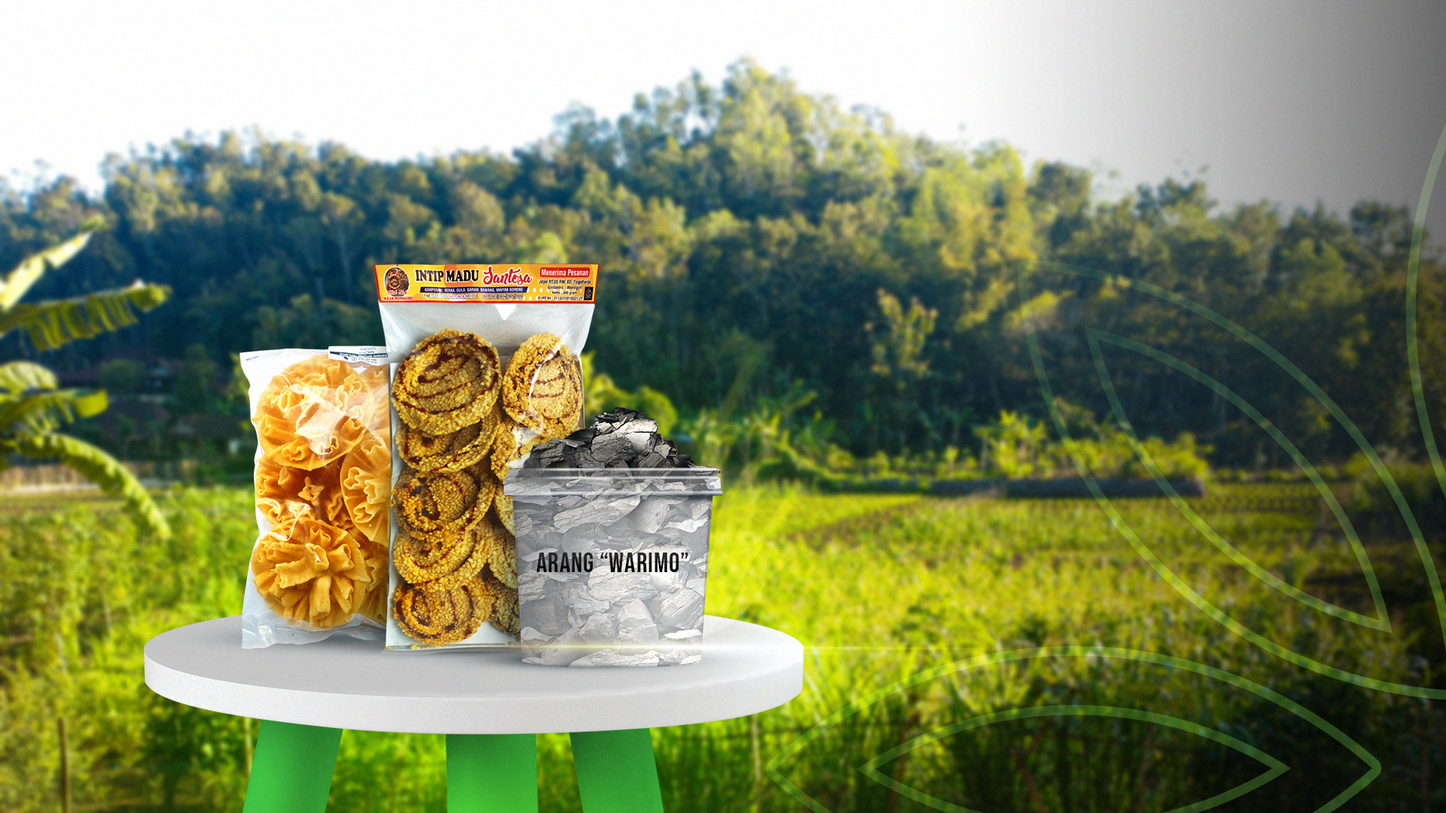
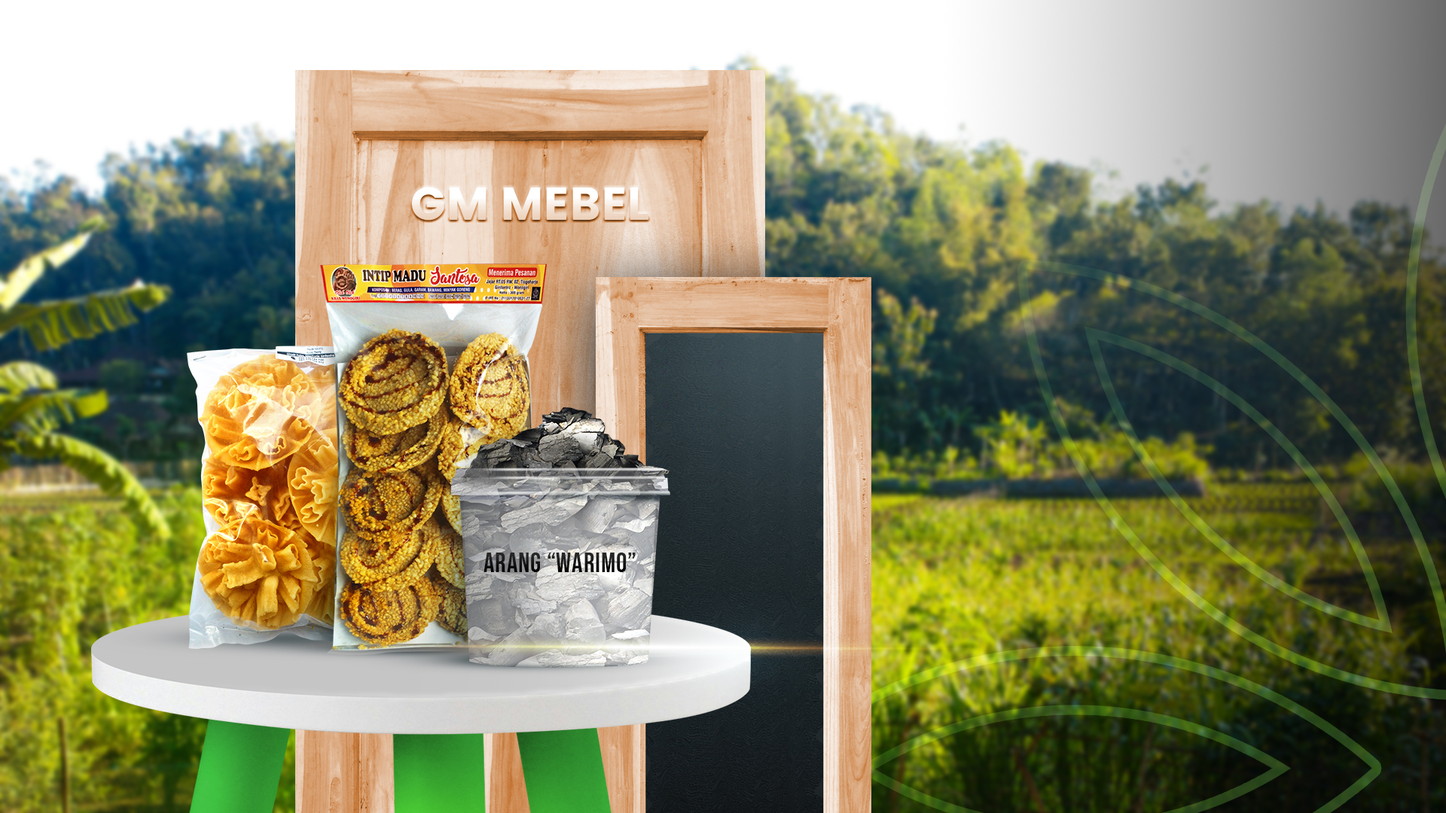
Penambahan produk baru
Menambahkan produk umkm mebel ke dalam katlog website profil umkm

diff --git a/src/components/ProductDetail.vue b/src/components/ProductDetail.vue
@@ -39,7 +39,13 @@ export default {
         name: "Arang Warimo",
         description: "Arang Warimo adalah produk arang yang dibuat dari pohon akasia. Arang ini diproduksi melalui proses pembakaran kayu akasia yang dikontrol dengan baik, sehingga menghasilkan arang berkualitas tinggi yang memiliki daya bakar lama dan panas yang konsisten. Arang Warimo sangat cocok digunakan untuk berbagai keperluan, mulai dari memasak, BBQ, hingga kebutuhan industri. Produk ini diproduksi di Kecamatan Giritontro, Kelurahan Tlogoharjo, Kabupaten Wonogiri, Dusun Jajar.\n\nNomor WhatsApp: 082142176669.",
         image: require('@/assets/arang.jpg')
-      }
+      },
+      {
+        id: 4,
+        name: 'G.M Mebel',
+        description: "Gino Mulyo Mebel, atau yang sering disingkat sebagai G.M Mebel, adalah sebuah tempat pembuatan mebel yang dikenal dengan keahliannya dalam menghasilkan produk-produk berkualitas tinggi dari kayu jati dan kayu mahoni. Tempat ini telah lama melayani berbagai kebutuhan mebel dengan spesialisasi pada pembuatan pintu, lemari, jendela, dan berbagai peralatan mebel lainnya.\n\nDi G.M Mebel, setiap produk dibuat dengan perhatian yang mendalam terhadap detail dan kualitas, memastikan bahwa setiap pesanan yang diterima dapat memenuhi harapan pelanggan. Dengan bahan baku utama kayu jati dan kayu mahoni yang terkenal akan kekuatan dan keindahannya, G.M Mebel siap untuk menjadi pilihan utama Anda dalam memenuhi kebutuhan mebel berkualitas tinggi. \n\nAlamat:\nDusun Purembe, Kelurahan Tlogoharjo, Kecamatan Giritontro, Kabupaten Wonogiri, Provinsi Jawa Tengah.\n\nKontak:\nNomor WhatsApp: 082243202102.",
+        image: require('@/assets/mebel.jpg')
+        }
 
     ];
     this.product = products.find(product => product.id === parseInt(productId));

diff --git a/src/components/ProductsList.vue b/src/components/ProductsList.vue
@@ -35,6 +35,11 @@ export default {
           id: 3,
           name: 'Arang Warimo',
           image: require('@/assets/arang.jpg')
+        },
+        {
+          id: 4,
+          name: 'G.M Mebel',
+          image: require('@/assets/mebel.jpg')
         }
       ]
     };

diff --git a/src/views/Product.vue b/src/views/Product.vue
@@ -39,6 +39,11 @@ export default {
           id: 3,
           name: 'Arang Warimo',
           image: require('@/assets/arang.jpg')
+        },
+        {
+          id: 4,
+          name: 'G.M Mebel',
+          image: require('@/assets/mebel.jpg')
         }
       ]
     };
